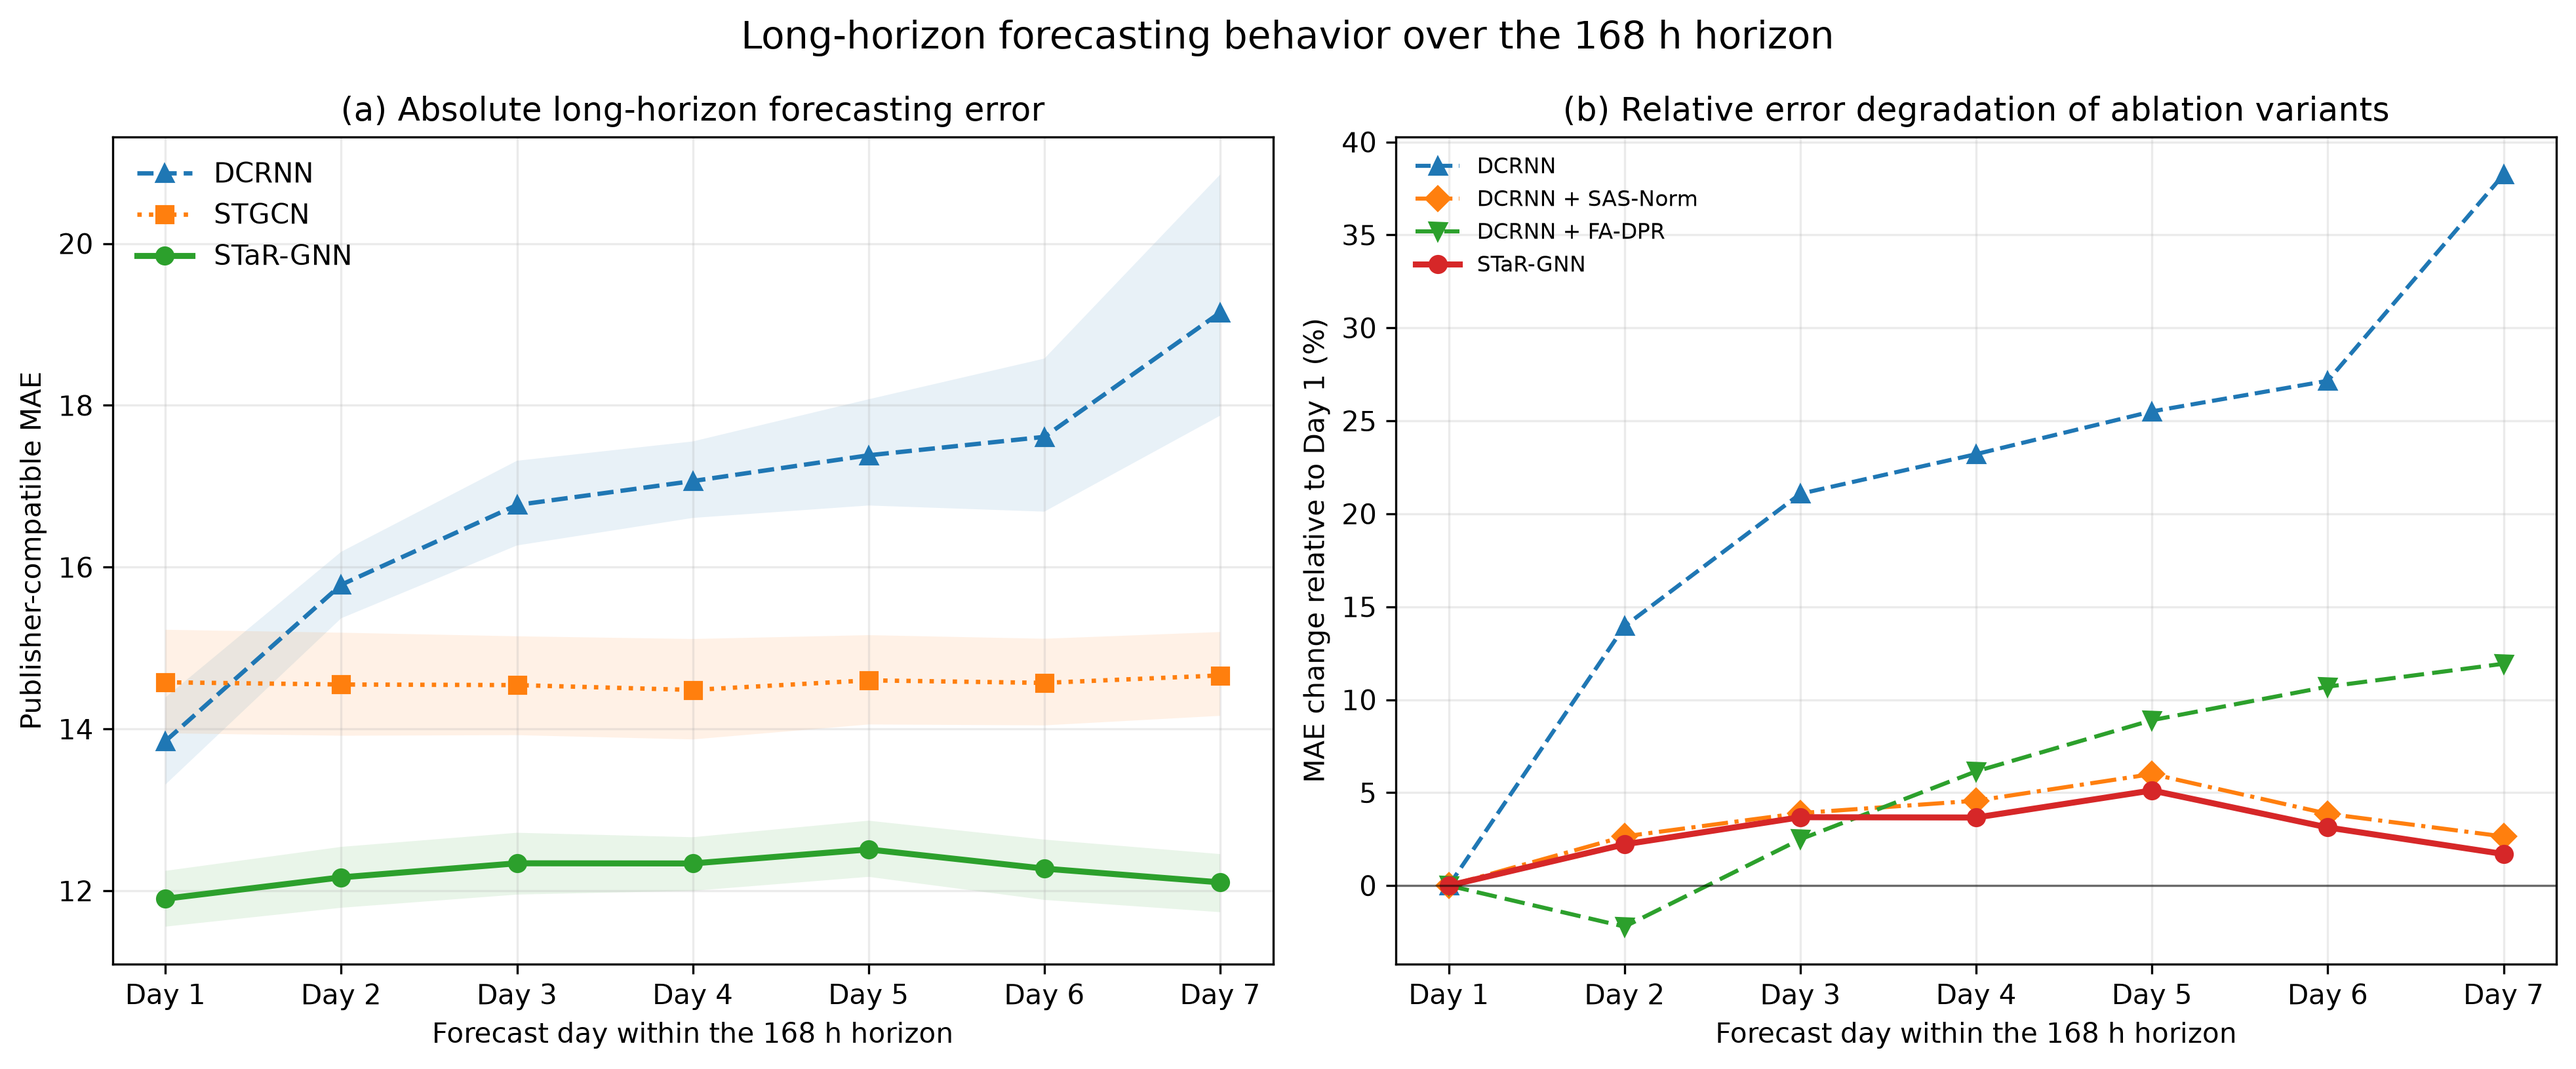
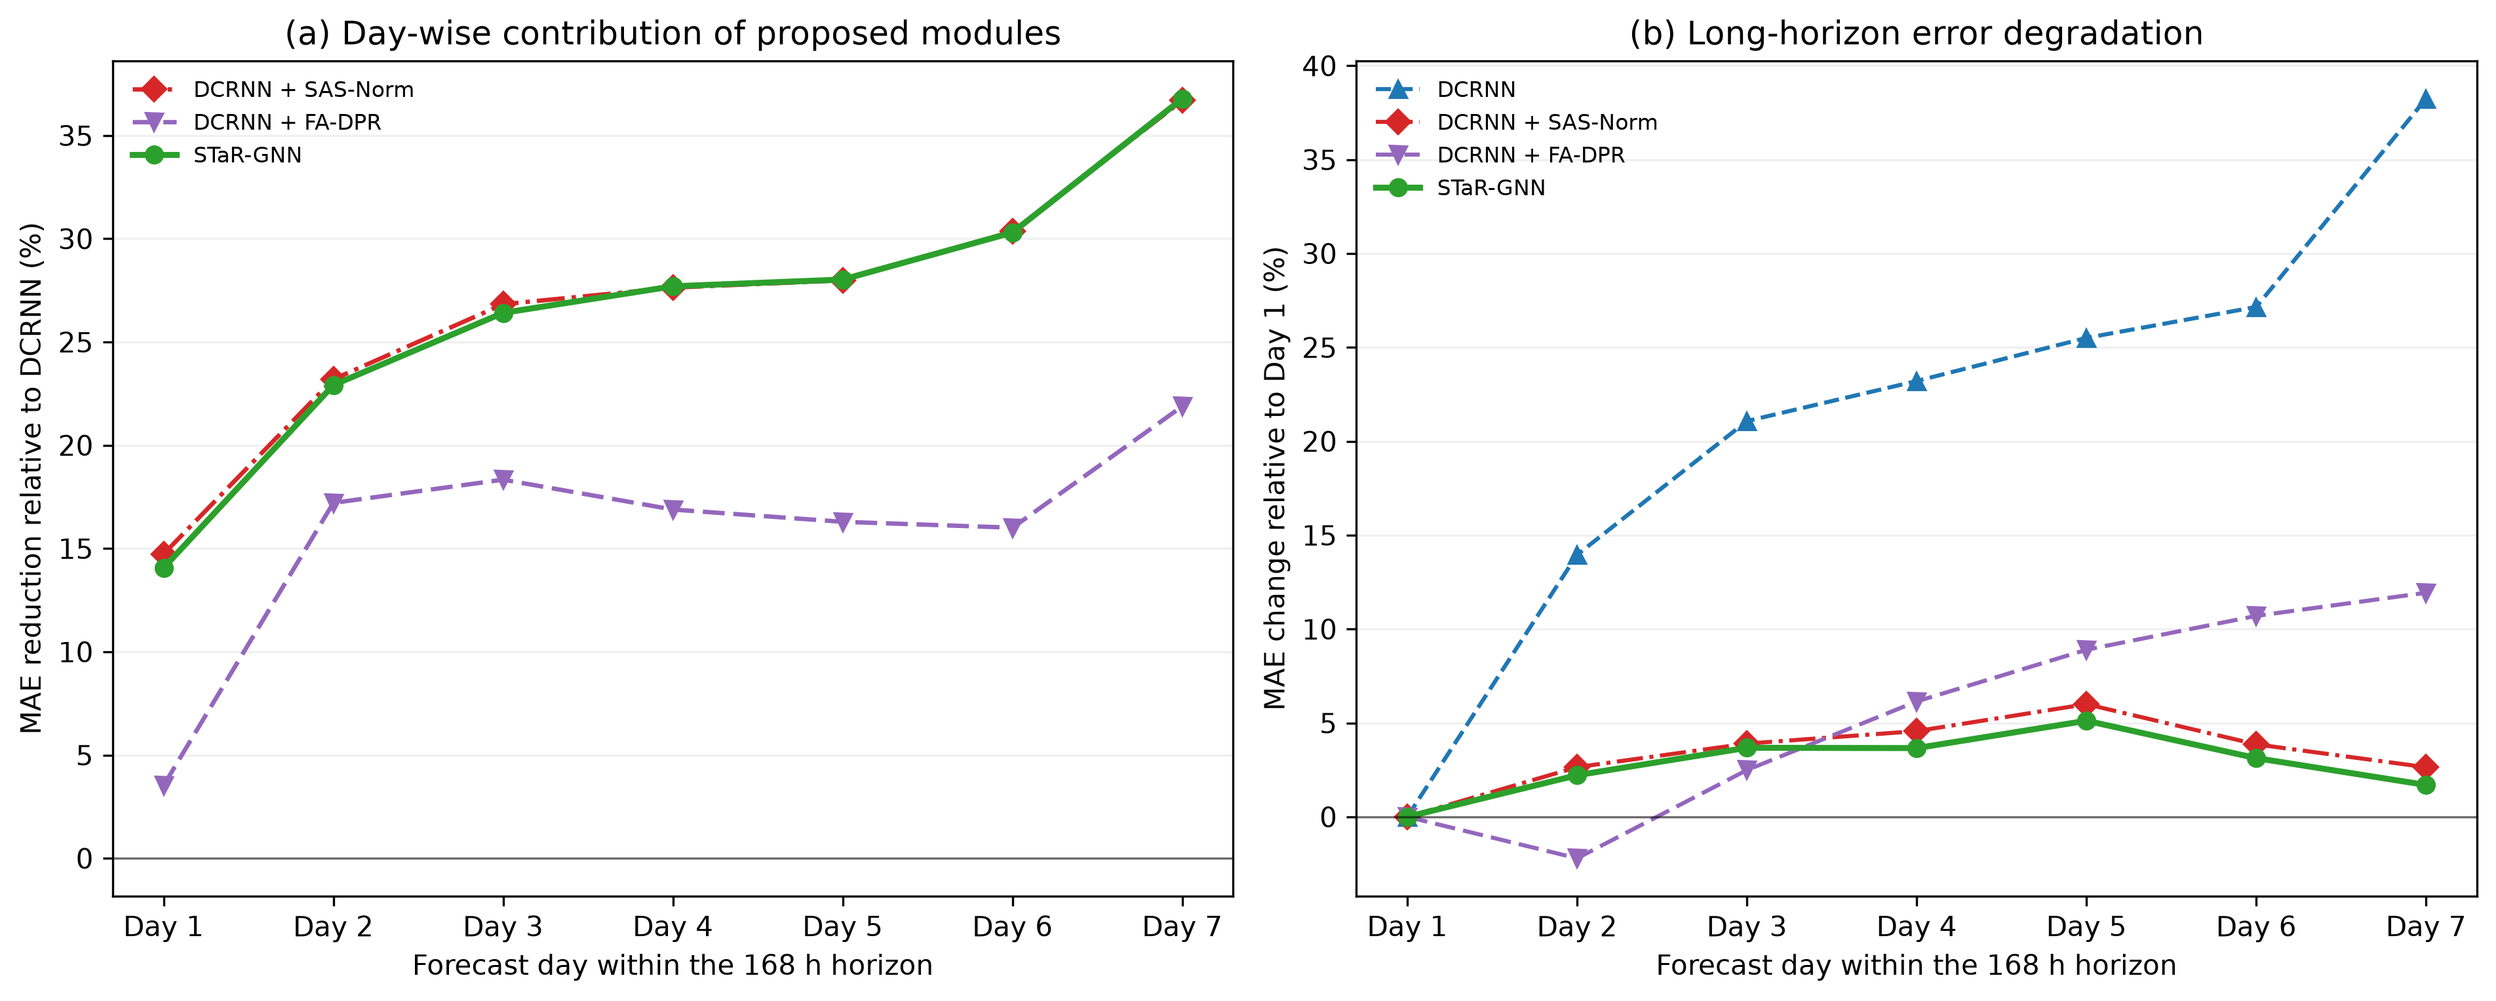
Finalize manuscript ablation figures and consistent model colors

diff --git a/scripts/reproduce/build_manuscript_results_figures.py b/scripts/reproduce/build_manuscript_results_figures.py
@@ -77,6 +77,14 @@ MARKERS = {
     "Full": "o",
 }
 
+MODEL_COLORS = {
+    "DCRNN": "#1f77b4",
+    "STGCN": "#ff7f0e",
+    "State": "#d62728",
+    "FA-DPR": "#9467bd",
+    "Full": "#2ca02c",
+}
+
 
 def _evaluation_dir(release: Path, model: str, task: str) -> Path:
     prefix = release / "models" if (release / "models").is_dir() else release
@@ -362,8 +370,9 @@ def _figure2_day1_day7(
             marker=MARKERS[model],
             linestyle=LINE_STYLES[model],
             linewidth=2.2 if model == "Full" else 1.5,
+            color=MODEL_COLORS[model],
         )
-        ax.fill_between(x, lo, hi, alpha=0.10)
+        ax.fill_between(x, lo, hi, alpha=0.10, color=MODEL_COLORS[model])
     ax.set_xticks(range(1, 8), [f"Day {i}" for i in range(1, 8)])
     ax.set_xlabel("Forecast day within the 168 h horizon")
     ax.set_ylabel("Publisher-compatible MAE")
@@ -442,6 +451,7 @@ def _figure3_origin_ecdf(
                 label=PUBLIC_LABEL[model],
                 linestyle=LINE_STYLES[model],
                 linewidth=2.2 if model == "Full" else 1.5,
+            color=MODEL_COLORS[model],
             )
         ax.set_xlabel("Per-origin publisher-compatible MAE")
         ax.set_title(f"({chr(97 + panel_index)}) {task.replace('h', ' h')}")
@@ -607,6 +617,7 @@ def _figure5_representative_trajectory(
             label=PUBLIC_LABEL[model],
             linestyle=LINE_STYLES[model],
             linewidth=2.0 if model == "Full" else 1.4,
+            color=MODEL_COLORS[model],
         )
         bottom.plot(
             hours,
@@ -614,6 +625,7 @@ def _figure5_representative_trajectory(
             label=PUBLIC_LABEL[model],
             linestyle=LINE_STYLES[model],
             linewidth=2.0 if model == "Full" else 1.3,
+            color=MODEL_COLORS[model],
         )
     for boundary in range(24, 168, 24):
         top.axvline(boundary + 0.5, linewidth=0.7, alpha=0.25, color="black")

diff --git a/scripts/reproduce/refine_manuscript_results_figures.py b/scripts/reproduce/refine_manuscript_results_figures.py
@@ -60,6 +60,14 @@ MARKERS = {
     "STaR-GNN": "o",
 }
 
+MODEL_COLORS = {
+    "DCRNN": "#1f77b4",
+    "STGCN": "#ff7f0e",
+    "DCRNN + SAS-Norm": "#d62728",
+    "DCRNN + FA-DPR": "#9467bd",
+    "STaR-GNN": "#2ca02c",
+}
+
 
 def _save(fig: plt.Figure, base: Path) -> None:
     fig.tight_layout()
@@ -143,6 +151,7 @@ def _plot_ablation(
             marker=MARKERS[model],
             linestyle=LINESTYLES[model],
             linewidth=2.2 if model == "STaR-GNN" else 1.6,
+            color=MODEL_COLORS[model],
         )
     ax_gain.axhline(0.0, linewidth=0.8, color="black", alpha=0.55)
     ax_gain.set_xticks(range(1, 8), [f"Day {i}" for i in range(1, 8)])
@@ -161,6 +170,7 @@ def _plot_ablation(
             marker=MARKERS[model],
             linestyle=LINESTYLES[model],
             linewidth=2.2 if model == "STaR-GNN" else 1.5,
+            color=MODEL_COLORS[model],
         )
     ax_deg.axhline(0.0, linewidth=0.8, color="black", alpha=0.55)
     ax_deg.set_xticks(range(1, 8), [f"Day {i}" for i in range(1, 8)])
@@ -319,6 +329,7 @@ def _plot_ecdf(frame: pd.DataFrame, figure_dir: Path) -> None:
                 label=model,
                 linestyle=LINESTYLES[model],
                 linewidth=2.2 if model == "STaR-GNN" else 1.6,
+            color=MODEL_COLORS[model],
             )
         ax.set_xlabel("Per-origin publisher-compatible MAE")
         ax.set_title(f"({panel}) {task.replace('h', ' h')}")
